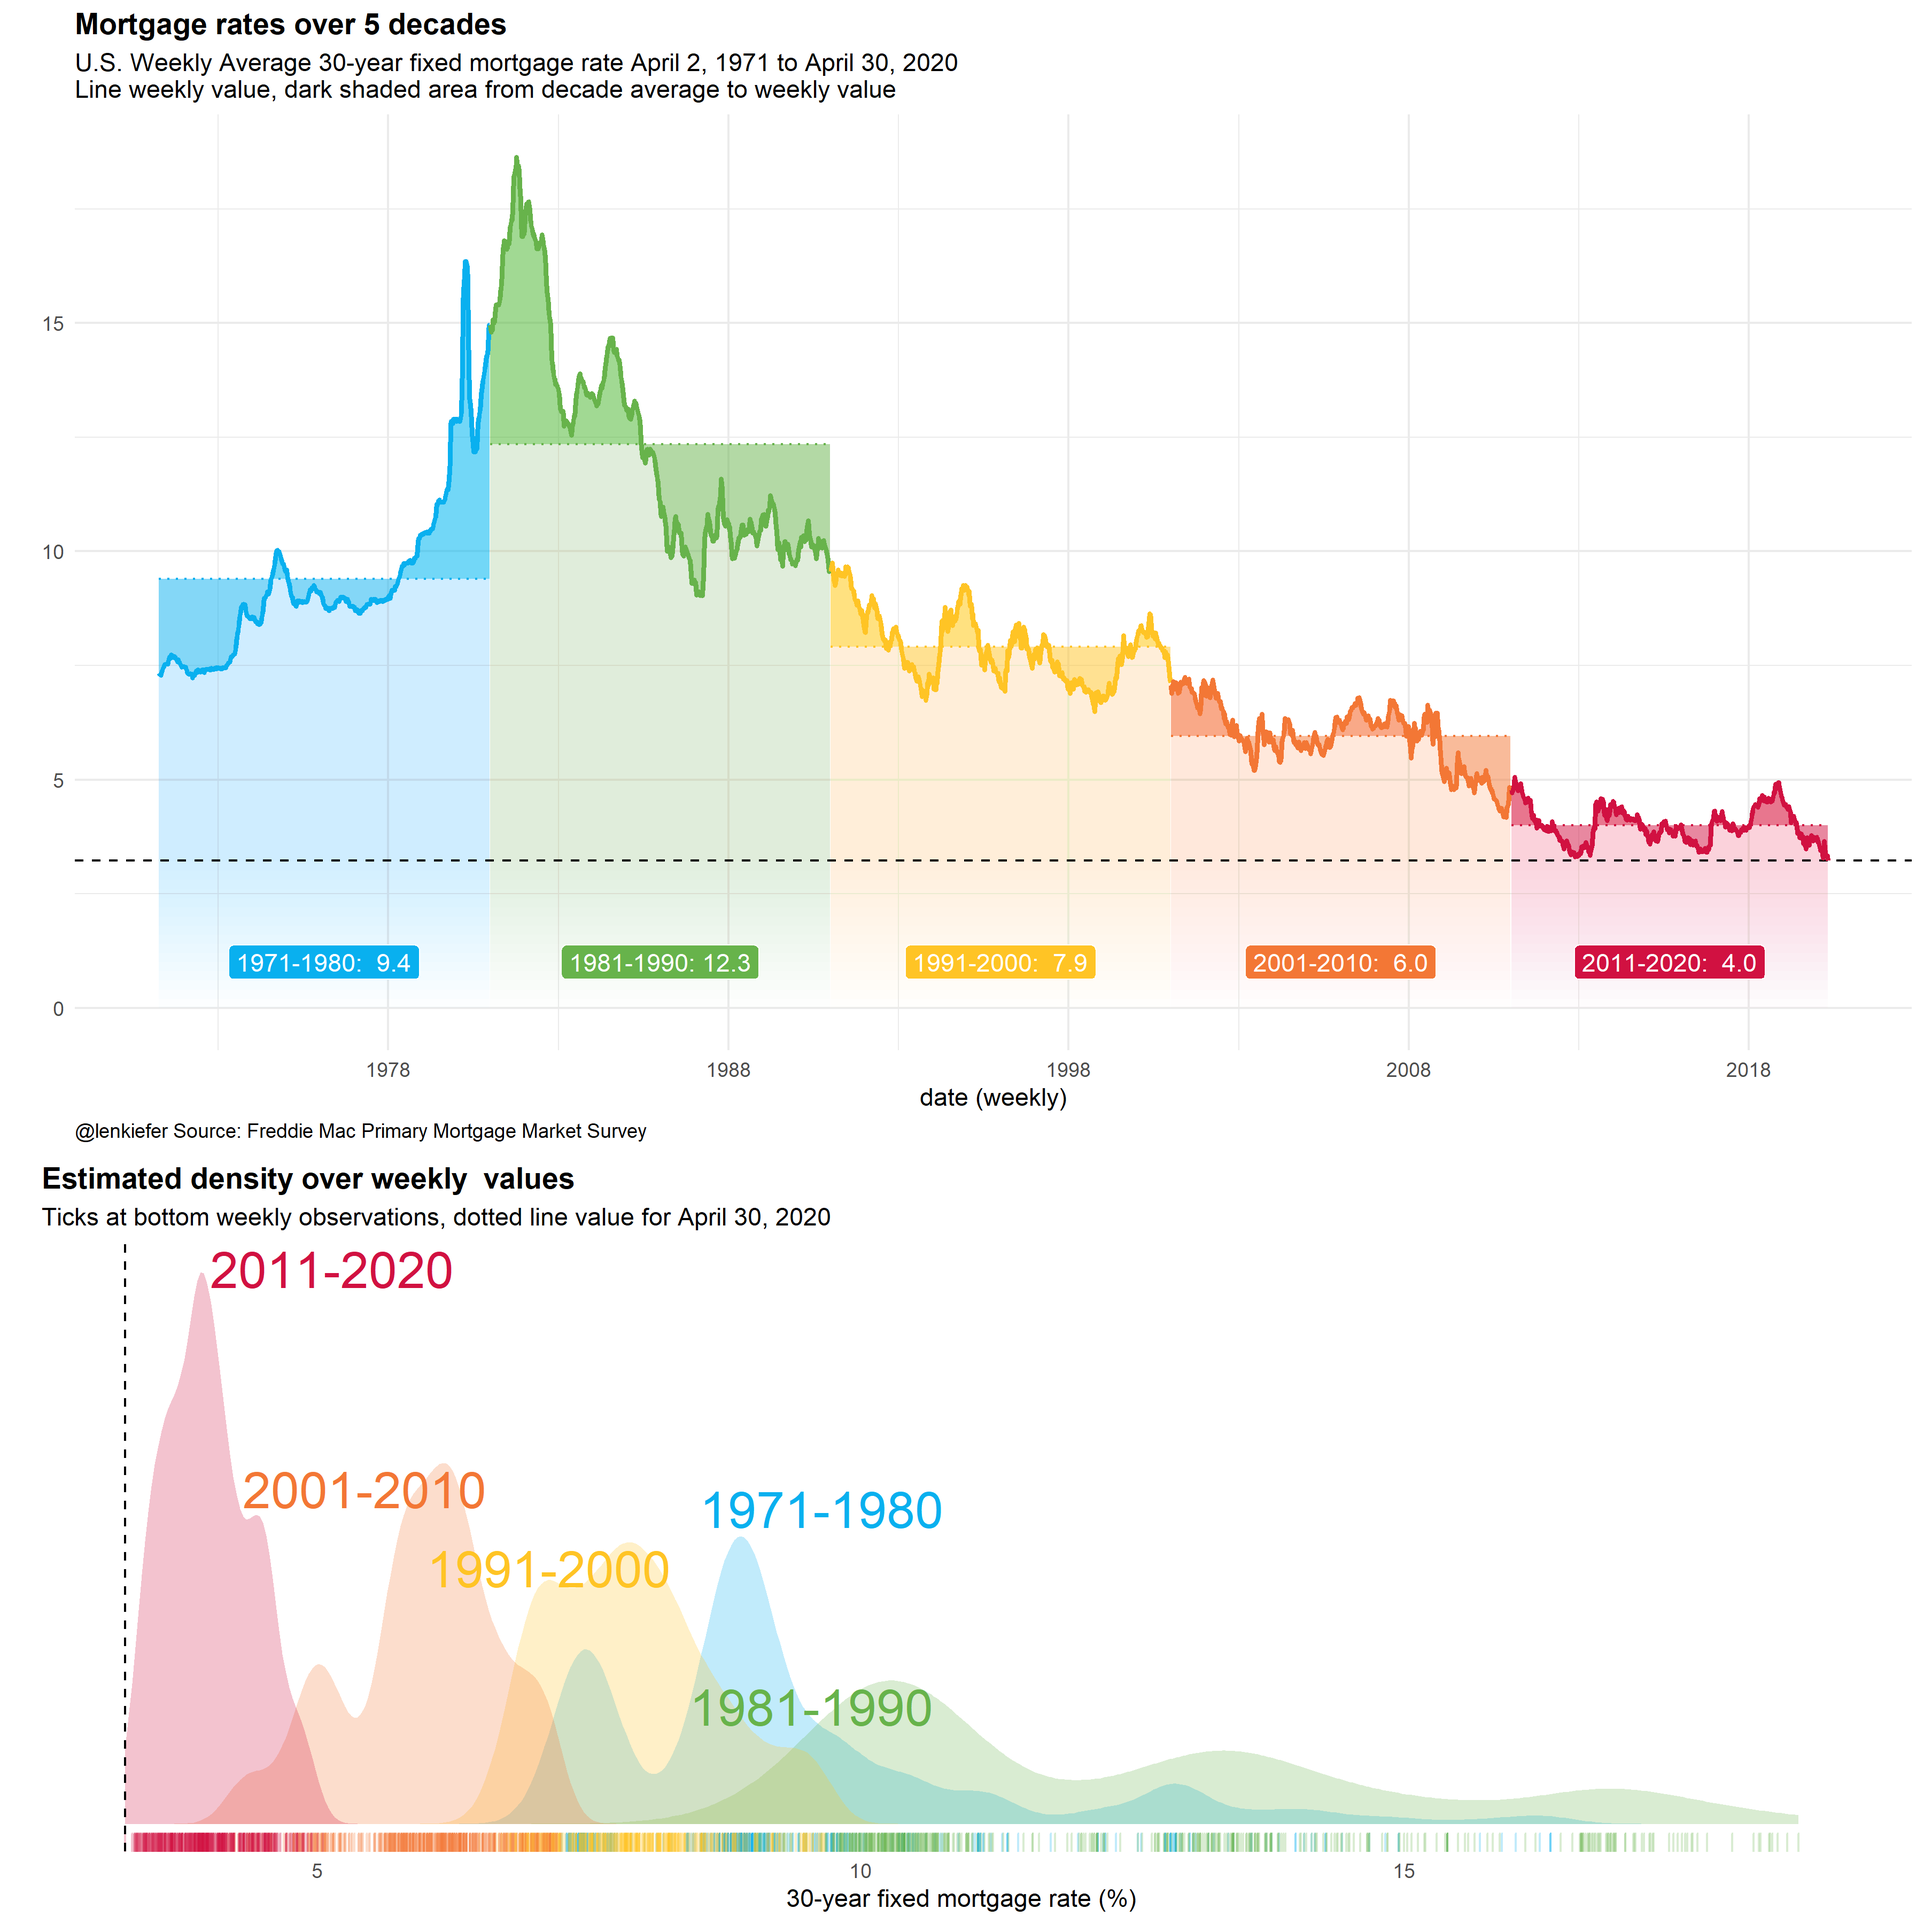
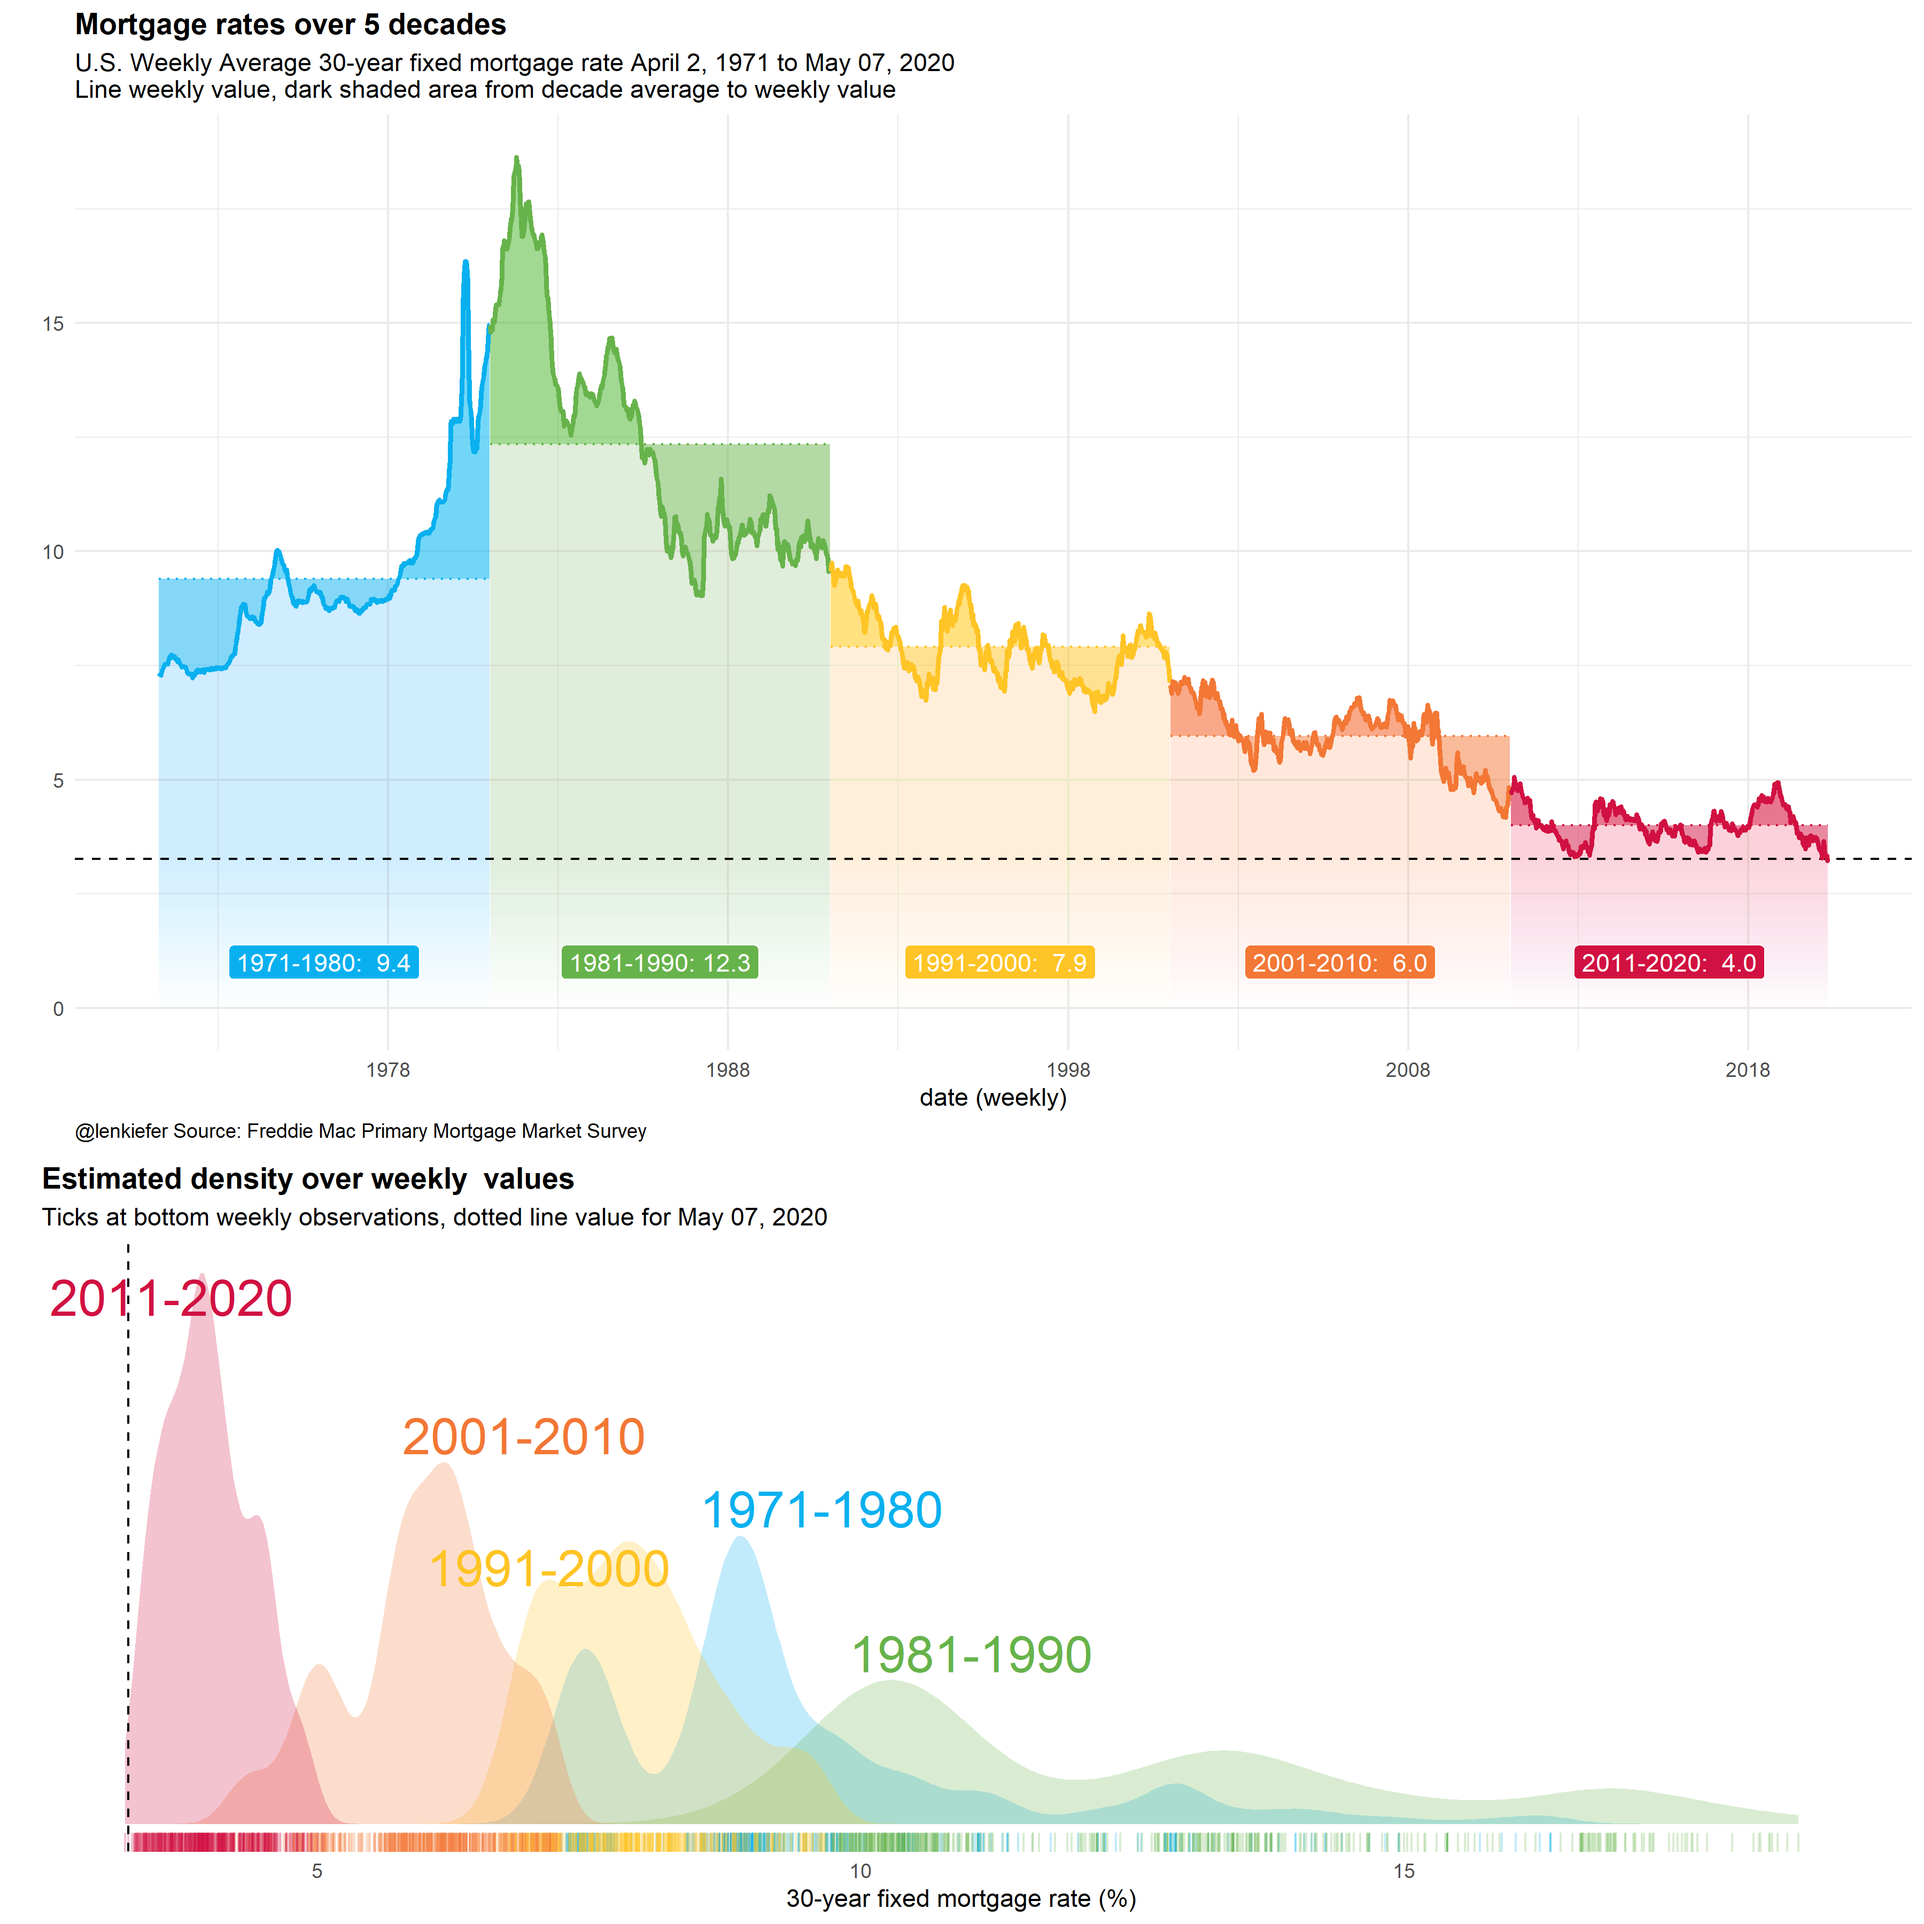
updates 2020 05 07

diff --git a/2020/04/20/updated-favorite-data-visualizations/index.html b/2020/04/20/updated-favorite-data-visualizations/index.html
@@ -252,10 +252,10 @@
 <p>Your favorite chart isn’t here? Let me know and maybe I can add it.</p>
 <div id="mortgage-rates" class="section level1">
 <h1>Mortgage Rates</h1>
-<p><em>Last updated 2020-04-30</em></p>
+<p><em>Last updated 2020-05-07</em></p>
 <p>Post <a href="../../../../2019/10/10/visualizing-consumer-price-inflation-and-mortgage-rates/">Visualizing consumer price inflation and mortgage rates</a></p>
 <p><img src="../../../../img/favorites/mtg.png" style="width:550px"></p>
-<p><em>Last updated 2020-04-30</em></p>
+<p><em>Last updated 2020-05-07</em></p>
 <p>Post <a href="../../../../2020/04/30/mortgage-rates-hit-a-record-low/">Mortgage rates hit a record low</a></p>
 <p><img src="../../../../img/favorites/mtg_trend.png" style="width:550px"></p>
 <p><img src="../../../../img/favorites/mtg_trend.gif" style="width:550px"></p>
